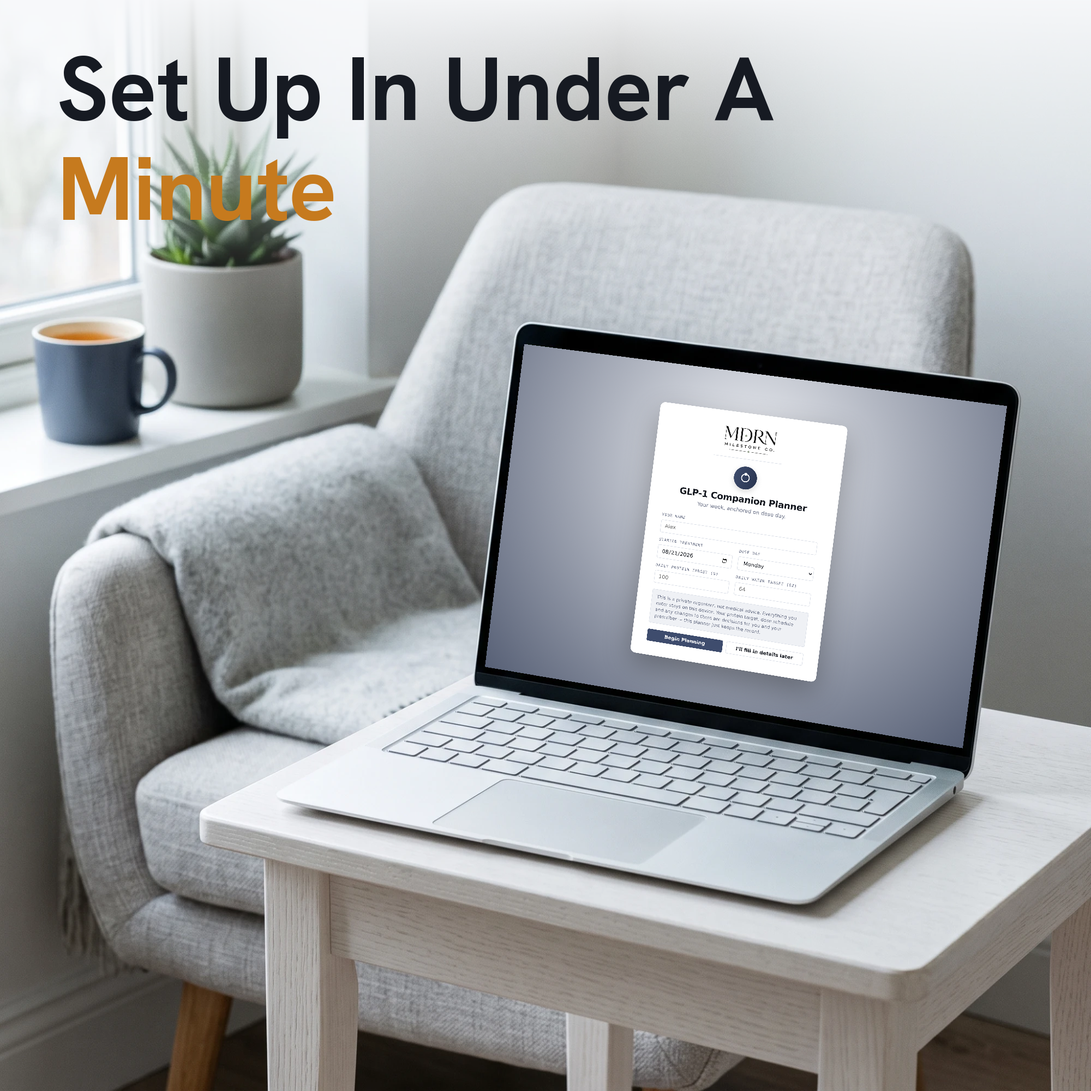
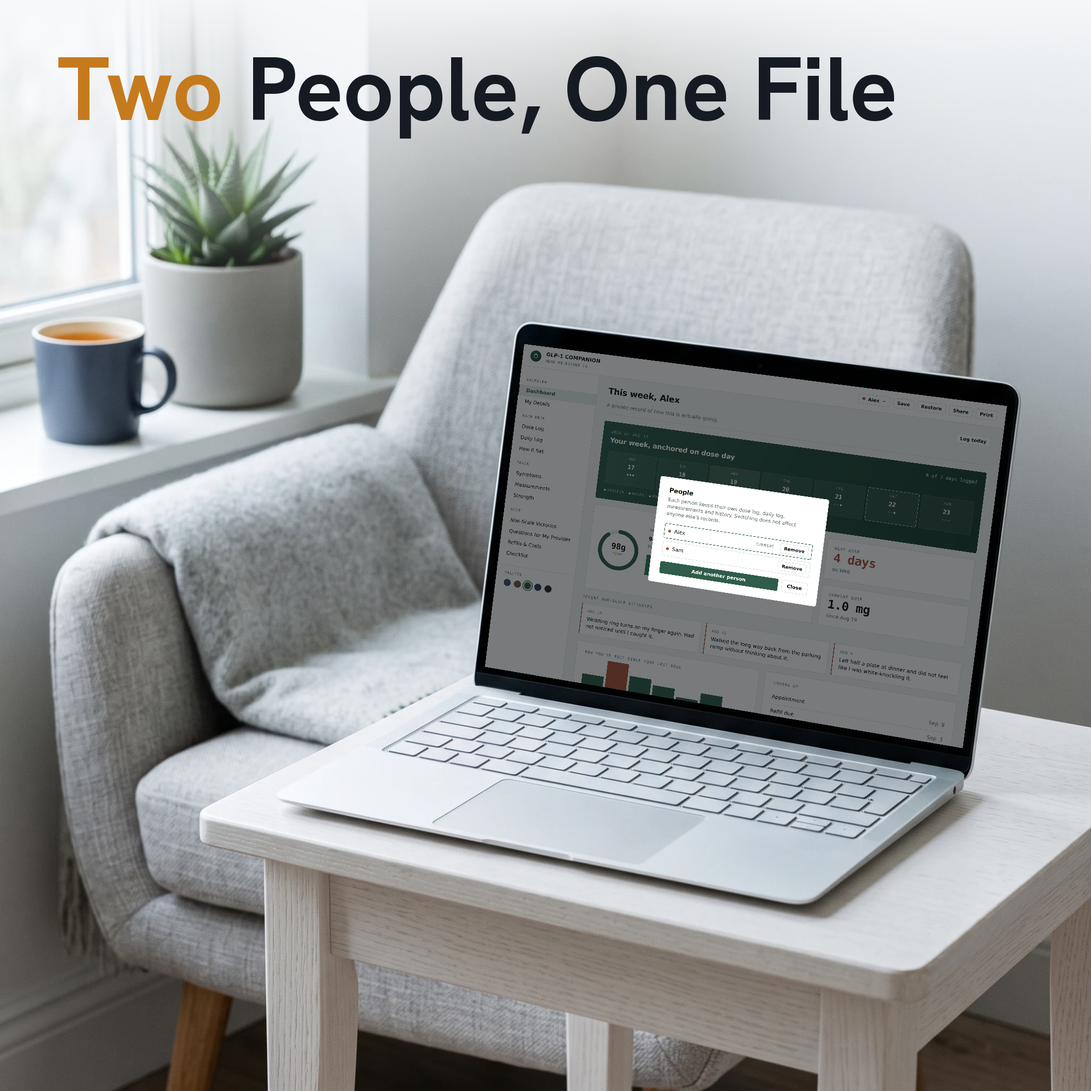
GLP-1 Companion: show the two-person feature in the listing images
Profiles were shipped but appeared in none of the 11 listing images, so a
browsing buyer had no way to know the planner does it.

- Capture 14_two_people.png (header switcher plus the People modal over a
  live dashboard) and 15_add_second_person.png (the activation card).
- Reassign slide 09 from the welcome screen to the two-person shot. Profiles
  are the only feature unique to this planner in the line; a generic
  onboarding screen was the weakest content in the set. No new backdrop
  needed, so no generation spend.

Also filled today's daily log in the captured state: the seed date rolled
over, so the protein ring was reading 0g. Confirmed by test that this was a
date artifact and not a regression from the profile-aware load().

diff --git a/MDRN/GLP-1 Companion/Etsy/build_slides.py b/MDRN/GLP-1 Companion/Etsy/build_slides.py
@@ -30,7 +30,9 @@ SLIDES = [
     ("06", "04_symptoms.png",            "Charted By Day Since Dose",       "Dose",    "tilted"),
     ("07", "06_dose_log.png",            "Every Dose, Site And Step",       "Every",   "tilted"),
     ("08", "12_strength.png",            "Keep The Muscle You Have",        "Muscle",  "tilted"),
-    ("09", "11_welcome_onboarding.png",  "Set Up In Under A Minute",        "Minute",  "tilted"),
+    # two people in one file is the line's only such feature -- it earns a slide more
+    # than a generic onboarding screen does
+    ("09", "14_two_people.png",           "Two People, One File",            "Two",     "tilted"),
     # phone is near head-on: bbox is more robust than diagonal extremes here
     ("10", "10_mobile_dashboard.png",    "On Your Phone, Wherever You Are", "Phone",   "bbox"),
 ]

diff --git a/MDRN/GLP-1 Companion/HANDOFF.md b/MDRN/GLP-1 Companion/HANDOFF.md
@@ -12,7 +12,7 @@ Last session: 2026-08-21
 | 0 | Concept, 12 modules, Design Signature | — | Archetype: **Quiet Clinical**. Hanken Grotesk + IBM Plex Mono, near-square 2–4px corners, hairline borders and no card shadow, cool slate on cool grey, week-strip dashboard, dose-ring motif |
 | 1 | Planner app | `HTML/glp1-companion-planner-v1.html` | No JS errors; no horizontal overflow in any of 12 sections at 375px; full encrypt/decrypt round-trip with zero plaintext leakage |
 | 1 | Badge icon | `Icon/glp1-companion-icon.png` | Exactly 1024×1024, real transparency, 86% circle fill |
-| 2 | Screenshots ×12 | `Etsy/screenshots/` | Palettes rotated across the set; all 12 slide-plan screens now captured |
+| 2 | Screenshots ×15 | `Etsy/screenshots/` | Palettes rotated across the set; includes the two-person switcher and the activation card |
 | 4 | Etsy demo videos ×2 | `Etsy/video/` | 13.28s and 13.56s, 1280×920 — both under the 15s cap |
 | 4b | Vertical social cut | `Etsy/video/glp1-companion-vertical.mp4` | 24.12s, 1080×1920 (exact 9:16) |
 | 5 | Etsy listing copy | `Etsy/Etsy Listing Copy.txt` | Title 121 chars, keyword in first 32; exactly 13 tags, all ≤19 chars, zero repeated root words |
